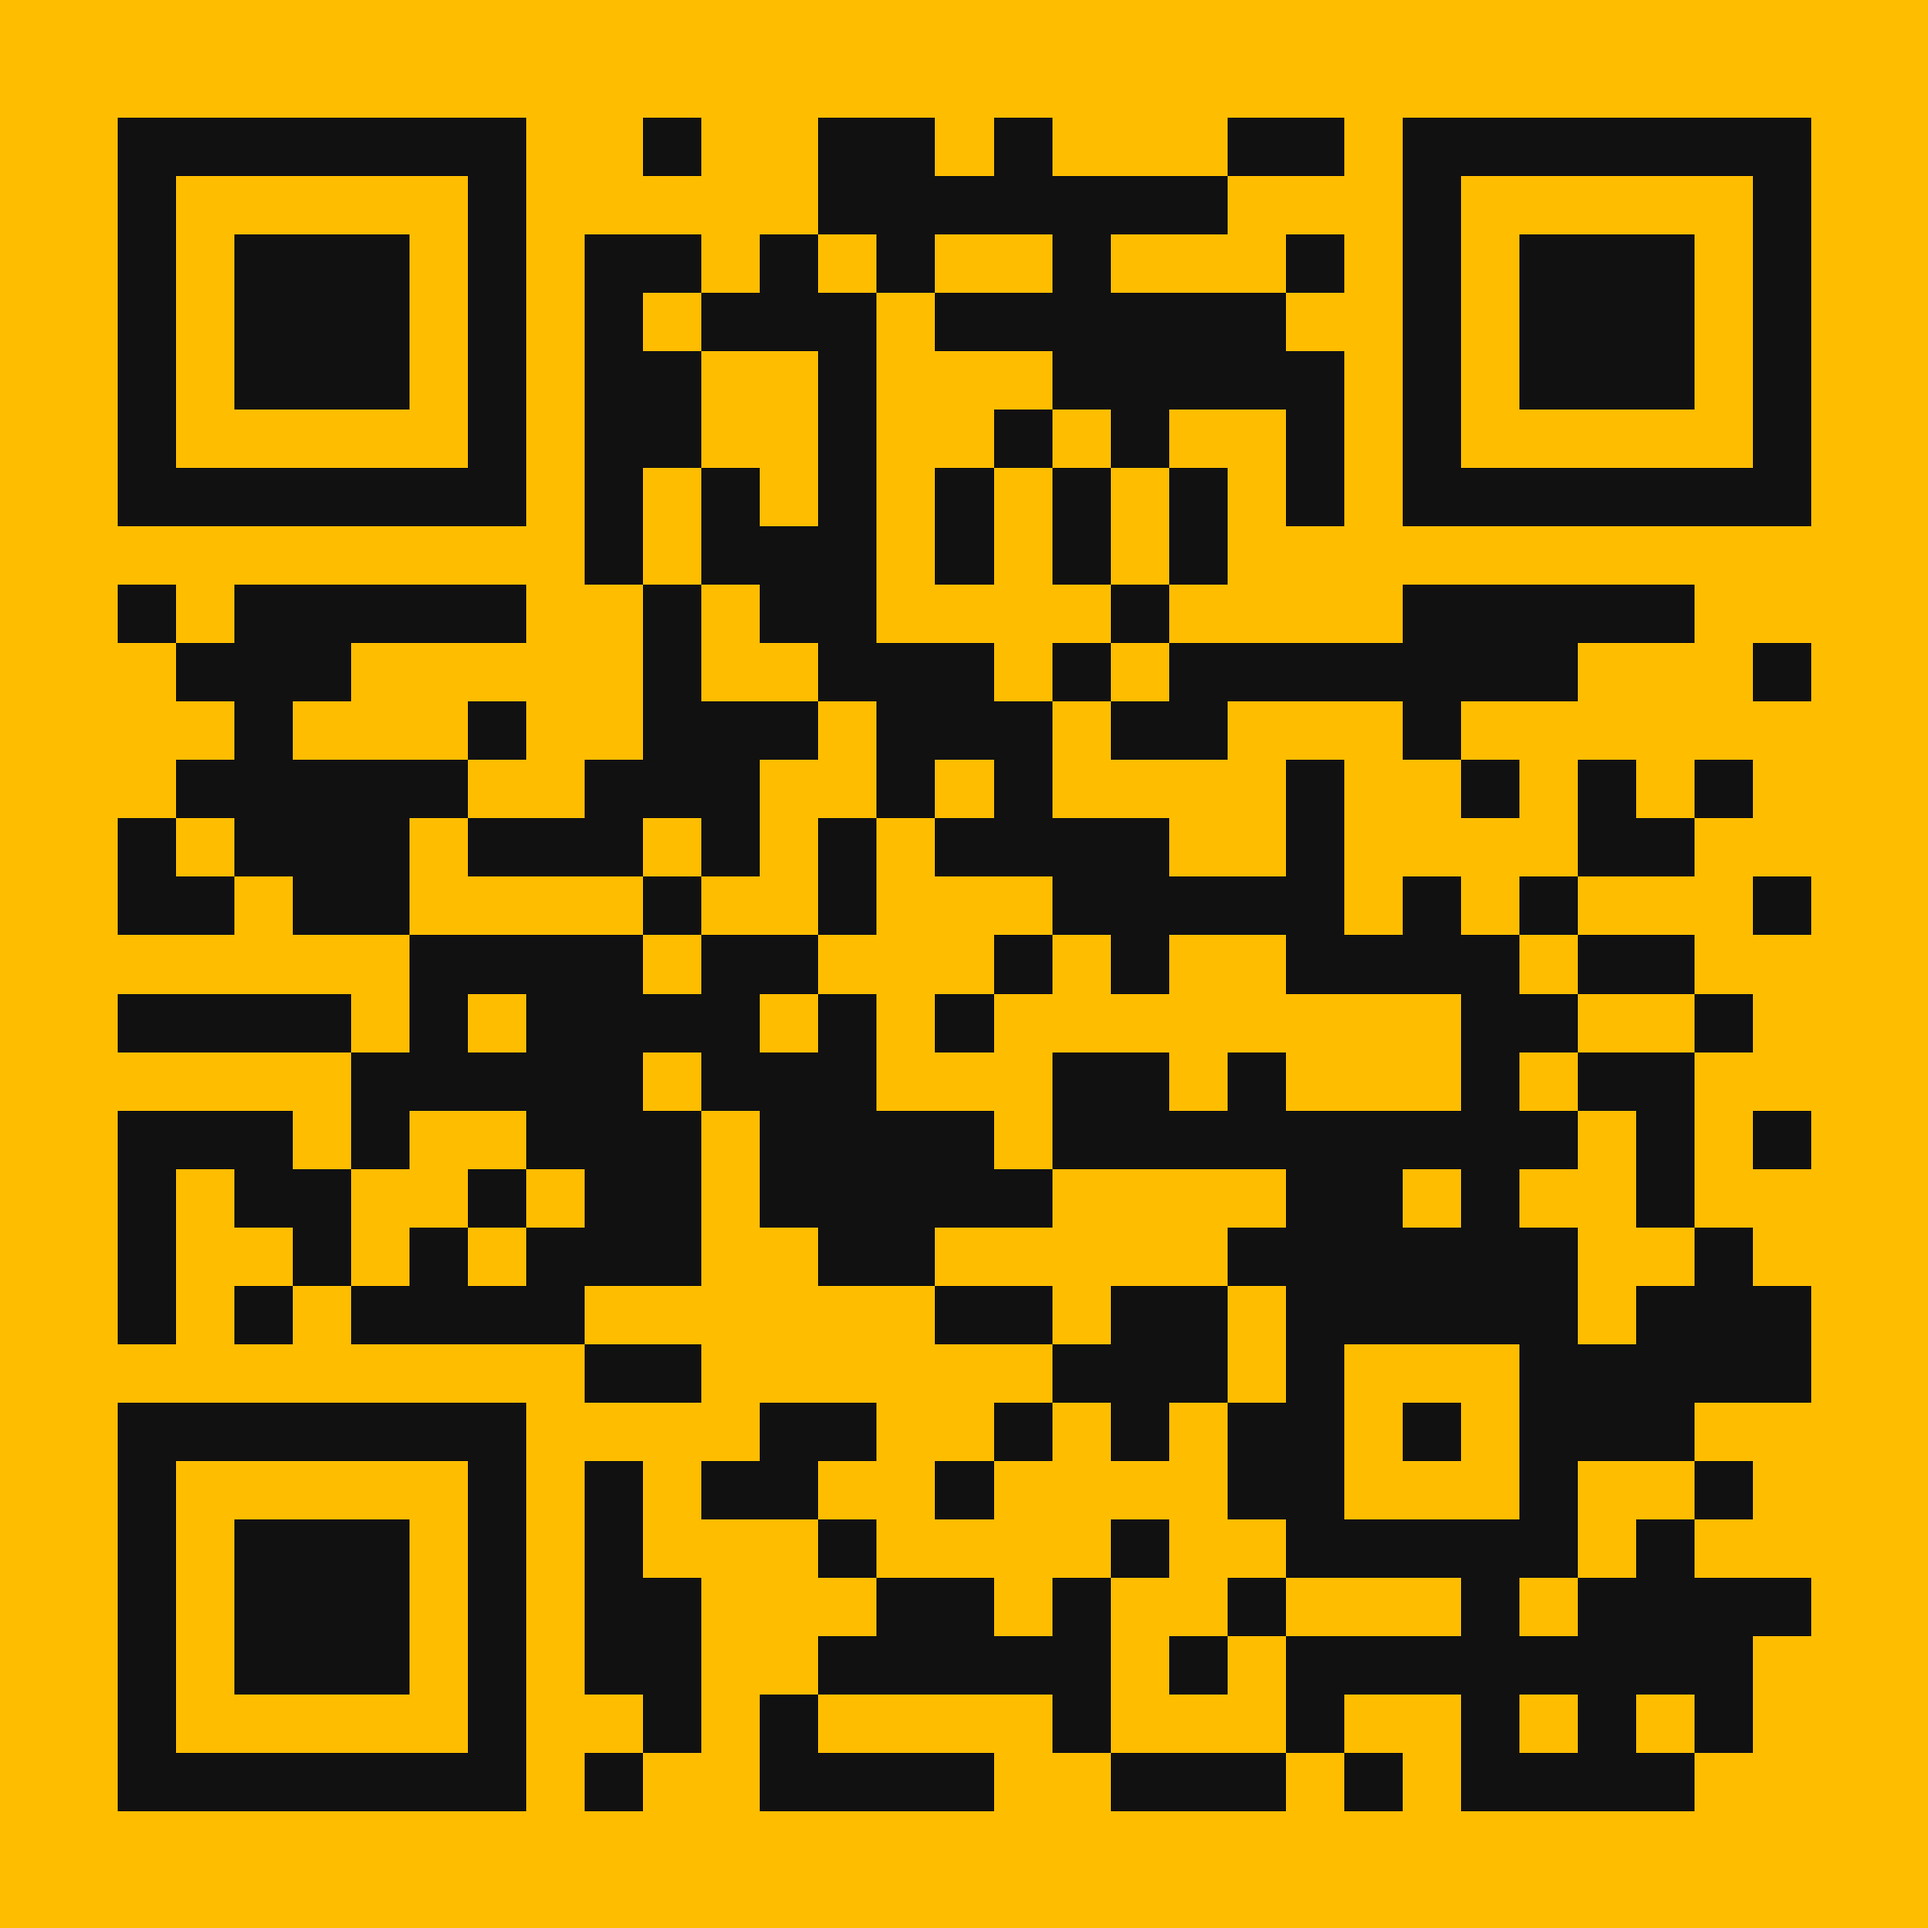
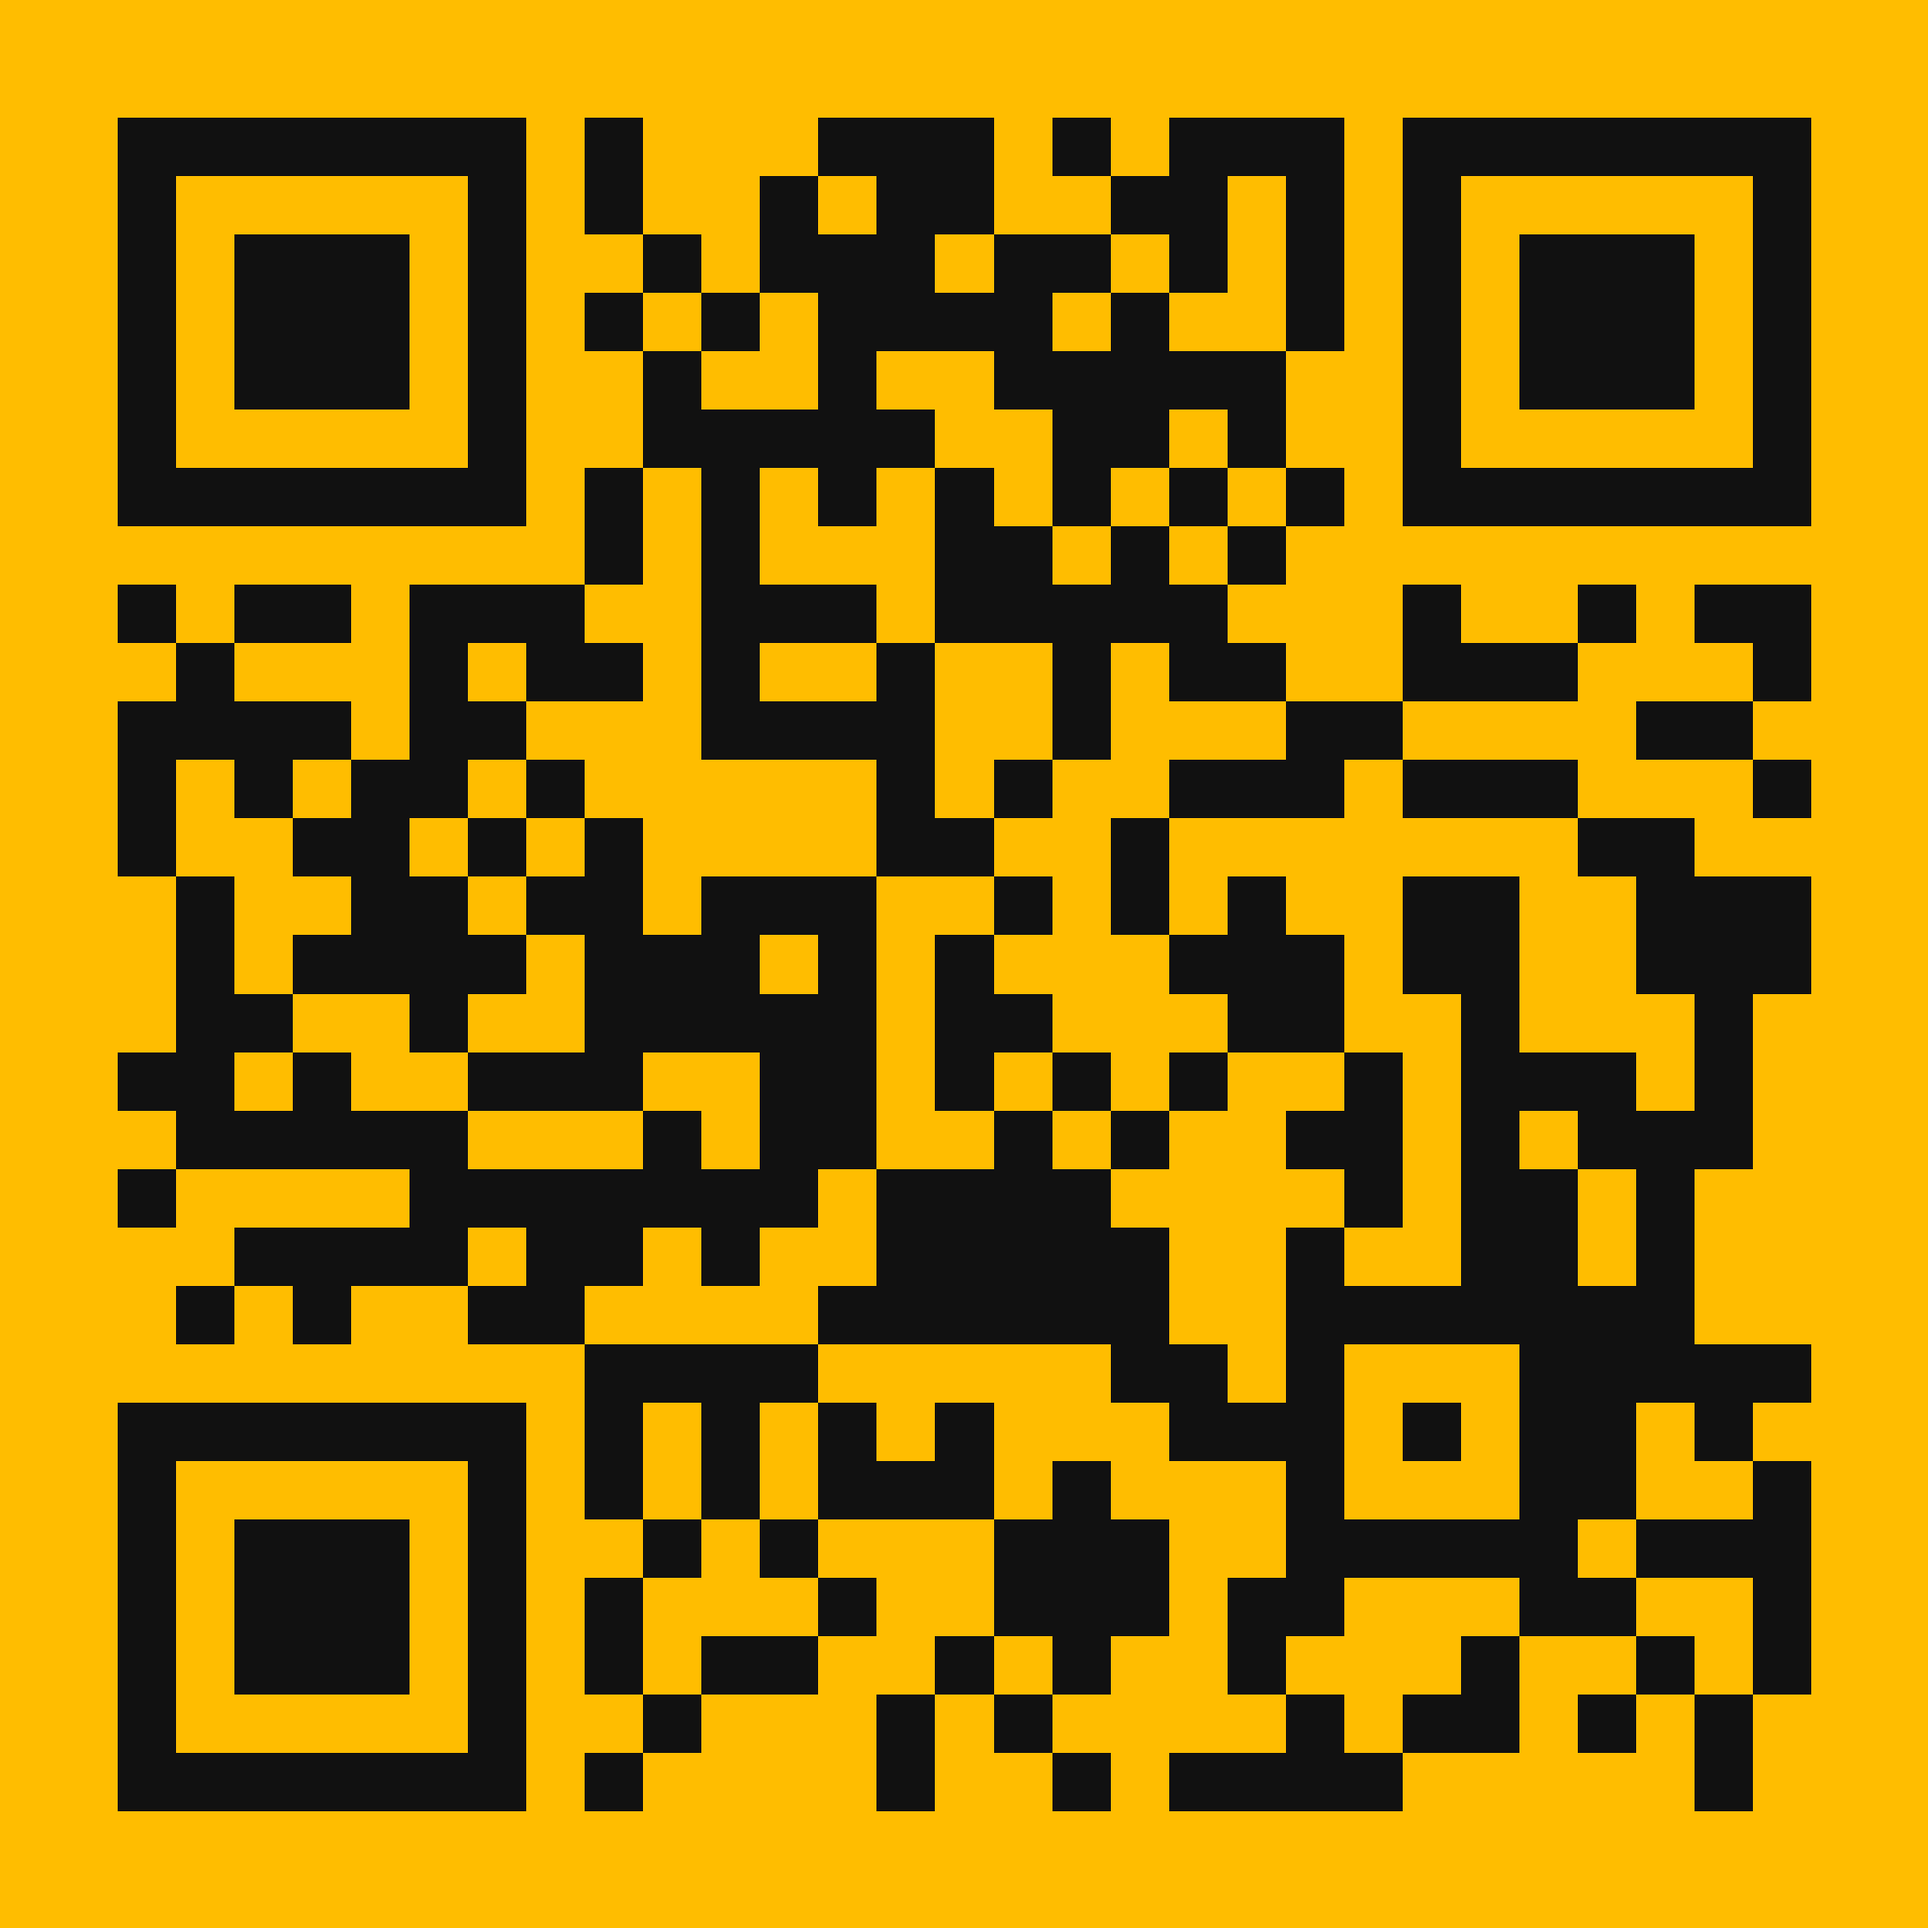
feat: los QR apuntan al dominio publicado y las tarjetas llevan codigo permanente
Los dos QR sueltos se regeneran contra gym-tap-ahwd.vercel.app. Verificado con
un decodificador real: los dos devuelven su URL exacta.

Ademas se acuna un codigo por cada maquina del piloto y la tarjeta impresa pasa
a llevar ese codigo en vez de la ruta /m/<id>. Era una bomba de tiempo: si
manana se renombra una maquina o se muda de sede, la ruta cambia y las tarjetas
impresas quedan apuntando a ningun lado. El codigo opaco no cambia nunca.

El dominio queda en un solo lugar. El generador de QR ahora lee los codigos y
la base del mismo modulo que usa la app, en vez de tener su propia copia:
escribir el dominio en dos lados es garantia de que alguna vez no coincidan, y
ahi quedan tarjetas impresas rotas.

Cuando este el dominio propio se cambia BASE_QR y se regeneran los que todavia
no se imprimieron.

Changed region(s): [[0.0625, 0.0625, 0.9375, 0.9375]]

diff --git a/src/datos/codigos.ts b/src/datos/codigos.ts
@@ -2,38 +2,70 @@
  * Los códigos impresos.
  *
  * Un QR no se puede editar después de imprimirlo: lo que dice, lo dice para
- * siempre. Por eso no apunta a `/m/prensa-45` sino a un código opaco sin
- * significado. El código no dice qué máquina es; lo dice esta tabla, que sí se
- * puede cambiar.
+ * siempre. Por eso no apunta a `/m/prensa-45`, que queda casado con el nombre
+ * de hoy, sino a un código opaco sin significado. Qué máquina es lo dice esta
+ * tabla, que sí se puede cambiar.
  *
  * Consecuencia práctica: se pueden imprimir cuatrocientas tarjetas antes de
  * saber a qué máquina va cada una, y asignarlas mientras se instalan. Si mañana
  * mueven la prensa a otra sede o la reemplazan por otra marca, se cambia una
  * línea acá y el sticker pegado sigue sirviendo.
  *
- * El alfabeto de los códigos evita los caracteres que se confunden al leerlos
- * o dictarlos por teléfono: no hay 0 ni O, no hay 1 ni l ni I.
+ * El alfabeto evita los caracteres que se confunden al leerlos o dictarlos por
+ * teléfono: no hay 0 ni O, no hay 1 ni l ni I.
  */
 
+/** Cómo se imprime ese QR. Solo aplica a los que se generan sueltos. */
+export type ColorQR = "naranja" | "amarillo";
+
 export interface Codigo {
-  /** Lo que va impreso en el QR. No cambia nunca. */
+  /** Lo que va impreso. No cambia nunca. */
   codigo: string;
   /** A qué unidad física apunta hoy. `null` = todavía sin asignar. */
   maquina: string | null;
   /** Para saber de qué tirada salió cuando aparezca una tarjeta huérfana. */
   tirada: string;
+  color?: ColorQR;
 }
 
 export const CODIGOS: Codigo[] = [
-  { codigo: "vktgd5", maquina: null, tirada: "2026-09 prueba" },
-  { codigo: "jbzpnw", maquina: null, tirada: "2026-09 prueba" },
+  // Las dos sueltas, para armar a mano en Canva. Se asignan cuando se peguen.
+  { codigo: "vktgd5", maquina: null, tirada: "2026-09 prueba", color: "naranja" },
+  { codigo: "jbzpnw", maquina: null, tirada: "2026-09 prueba", color: "amarillo" },
+
+  // Una por máquina del piloto. Las tarjetas ya se imprimen con estas.
+  { codigo: "pz9jdj", maquina: "p1", tirada: "2026-09 piloto" },
+  { codigo: "46wbq3", maquina: "p2", tirada: "2026-09 piloto" },
+  { codigo: "rpmz3c", maquina: "e1", tirada: "2026-09 piloto" },
+  { codigo: "vhdhdd", maquina: "j1", tirada: "2026-09 piloto" },
+  { codigo: "xhxx9d", maquina: "r1", tirada: "2026-09 piloto" },
+  { codigo: "5k787z", maquina: "b1", tirada: "2026-09 piloto" },
+  { codigo: "wfkxht", maquina: "h1", tirada: "2026-09 piloto" },
+  { codigo: "vhzpwh", maquina: "n1", tirada: "2026-09 piloto" },
+  { codigo: "64f586", maquina: "n2", tirada: "2026-09 piloto" },
+  { codigo: "dfpvxg", maquina: "n3", tirada: "2026-09 piloto" },
 ];
 
-/** El dominio propio es lo que hace que el código dure: no vence con un proveedor. */
-export const BASE_QR = "https://www.mybdigitals.com/q";
+/**
+ * El dominio de los códigos.
+ *
+ * Hoy es el de Vercel. Cuando esté el dominio propio se cambia esta línea y se
+ * vuelven a generar los QR que todavía no se imprimieron; los ya pegados siguen
+ * andando si el proyecto de Vercel queda vivo redirigiendo al nuevo.
+ *
+ * Es la única fuente de la dirección: la usan las tarjetas y el generador de
+ * QR. Tener dos lugares donde escribir el dominio es garantía de que alguna vez
+ * no coincidan, y ahí quedan tarjetas impresas apuntando a ningún lado.
+ */
+export const BASE_QR = "https://gym-tap-ahwd.vercel.app/q";
 
 export const urlDeCodigo = (codigo: string) => `${BASE_QR}/${codigo}`;
 
 export function buscarCodigo(codigo: string): Codigo | undefined {
   return CODIGOS.find((c) => c.codigo === codigo.toLowerCase());
+}
+
+/** El código permanente de una máquina, que es lo que va impreso en su tarjeta. */
+export function codigoDeMaquina(maquina: string): Codigo | undefined {
+  return CODIGOS.find((c) => c.maquina === maquina);
 }

diff --git a/scripts/generar-qr.ts b/scripts/generar-qr.ts
@@ -1,0 +1,76 @@
+/**
+ * Genera los archivos de QR sueltos, para armar tarjetas a mano.
+ *
+ * Lee los códigos y el dominio del mismo módulo que usa la app: si el dominio
+ * cambia, cambia en los dos lados o en ninguno.
+ *
+ * SVG primero, que es vectorial y escala a cualquier tamaño sin perder
+ * definición; Canva lo acepta. El PNG queda de respaldo.
+ *
+ * Sobre el color: un lector no distingue tonos, distingue claro de oscuro. El
+ * amarillo de la marca tiene casi la luminosidad del blanco, así que módulos
+ * amarillos sobre fondo blanco no se leen. Por eso el amarillo va en el FONDO,
+ * con los módulos negros: mismo aspecto, contraste de sobra. El naranja sí es
+ * lo bastante oscuro como para ir en los módulos.
+ */
+import { mkdir, writeFile } from "node:fs/promises";
+import QRCode from "qrcode";
+import { CODIGOS, urlDeCodigo, type ColorQR } from "../src/datos/codigos.ts";
+
+const PALETA: Record<ColorQR, { oscuro: string; claro: string }> = {
+  naranja: { oscuro: "#C2410C", claro: "#FFFFFF" },
+  amarillo: { oscuro: "#111111", claro: "#FFBD00" },
+};
+
+/** Luminancia relativa según WCAG: es lo que ve un lector, no el tono. */
+function luminancia(hex: string): number {
+  const canal = (v: string) => {
+    const c = parseInt(v, 16) / 255;
+    return c <= 0.03928 ? c / 12.92 : ((c + 0.055) / 1.055) ** 2.4;
+  };
+  const [r, g, b] = [hex.slice(1, 3), hex.slice(3, 5), hex.slice(5, 7)].map(canal);
+  return 0.2126 * r + 0.7152 * g + 0.0722 * b;
+}
+
+function contraste(a: string, b: string): number {
+  const [x, y] = [luminancia(a), luminancia(b)].sort((m, n) => n - m);
+  return (x + 0.05) / (y + 0.05);
+}
+
+/* Por debajo de 4 a 1 los lectores fallan con poca luz o de lejos, que es
+   exactamente la situación de un gimnasio. */
+const MINIMO = 4;
+
+async function principal() {
+  const salida = new URL("../impresion/qr/", import.meta.url);
+  await mkdir(salida, { recursive: true });
+
+  for (const entrada of CODIGOS.filter((c) => c.color)) {
+    const paleta = PALETA[entrada.color!];
+    const ratio = contraste(paleta.oscuro, paleta.claro);
+    if (ratio < MINIMO) {
+      throw new Error(
+        `El ${entrada.color} tiene contraste ${ratio.toFixed(1)}:1 y no se va a leer. Mínimo ${MINIMO}:1.`,
+      );
+    }
+
+    const url = urlDeCodigo(entrada.codigo);
+    // Corrección de errores M: aguanta que se raye o se ensucie una parte.
+    const opciones = {
+      errorCorrectionLevel: "M" as const,
+      margin: 2,
+      color: { dark: paleta.oscuro, light: paleta.claro },
+    };
+
+    const nombre = `qr-${entrada.color}-${entrada.codigo}`;
+    await writeFile(
+      new URL(`${nombre}.svg`, salida),
+      await QRCode.toString(url, { ...opciones, type: "svg", width: 1024 }),
+    );
+    await writeFile(new URL(`${nombre}.png`, salida), await QRCode.toBuffer(url, { ...opciones, width: 2048 }));
+
+    console.log(`${entrada.color!.padEnd(9)} ${entrada.codigo}  contraste ${ratio.toFixed(1)}:1  →  ${url}`);
+  }
+}
+
+void principal();

diff --git a/src/app/tarjetas/page.tsx b/src/app/tarjetas/page.tsx
@@ -4,6 +4,7 @@ import Link from "next/link";
 import { useEffect, useState, useSyncExternalStore } from "react";
 import QRCode from "qrcode/lib/browser";
 import { MAQUINAS, SUCURSALES, buscarModelo, nombreSucursal } from "@/datos/catalogo";
+import { codigoDeMaquina, urlDeCodigo } from "@/datos/codigos";
 import type { Maquina } from "@/datos/tipos";
 import { IconoNFC, PressBarra, Sentadilla } from "@/componentes/Figuras";
 import "./tarjeta.css";
@@ -30,13 +31,6 @@ const LOGO: string | null = null;
  * fuentes para el mismo dato es garantía de que alguna vez no coincidan.
  */
 export default function Tarjetas() {
-  // El origen es un valor del navegador, no estado de la pantalla: copiarlo
-  // dentro de un efecto cuesta un render extra y el compilador lo marca.
-  const origen = useSyncExternalStore(
-    () => () => {},
-    () => window.location.origin,
-    () => "",
-  );
   const [sucursal, setSucursal] = useState("todas");
   const [tema, setTema] = useState<"negro" | "claro">("negro");
 
@@ -101,7 +95,7 @@ export default function Tarjetas() {
           <Tarjeta
             key={m.id}
             maquina={m}
-            url={`${origen}/m/${m.id}`}
+            url={urlDeCodigo(codigoDeMaquina(m.id)?.codigo ?? "")}
             tema={tema}
             indice={`${String(i + 1).padStart(2, "0")} / ${String(maquinas.length).padStart(2, "0")}`}
           />
@@ -201,7 +195,9 @@ function Tarjeta({
 
       <footer className="t-pie">
         <span className="t-codigo">{maquina.codigo}</span>
-        <span className="t-sector">{maquina.sector}</span>
+        {/* El código corto es el que se dicta por teléfono para asignar la
+            tarjeta. El largo es el de inventario. */}
+        <span className="t-sector">{codigoDeMaquina(maquina.id)?.codigo}</span>
         <span className="t-pie-der">{indice}</span>
       </footer>
     </article>
